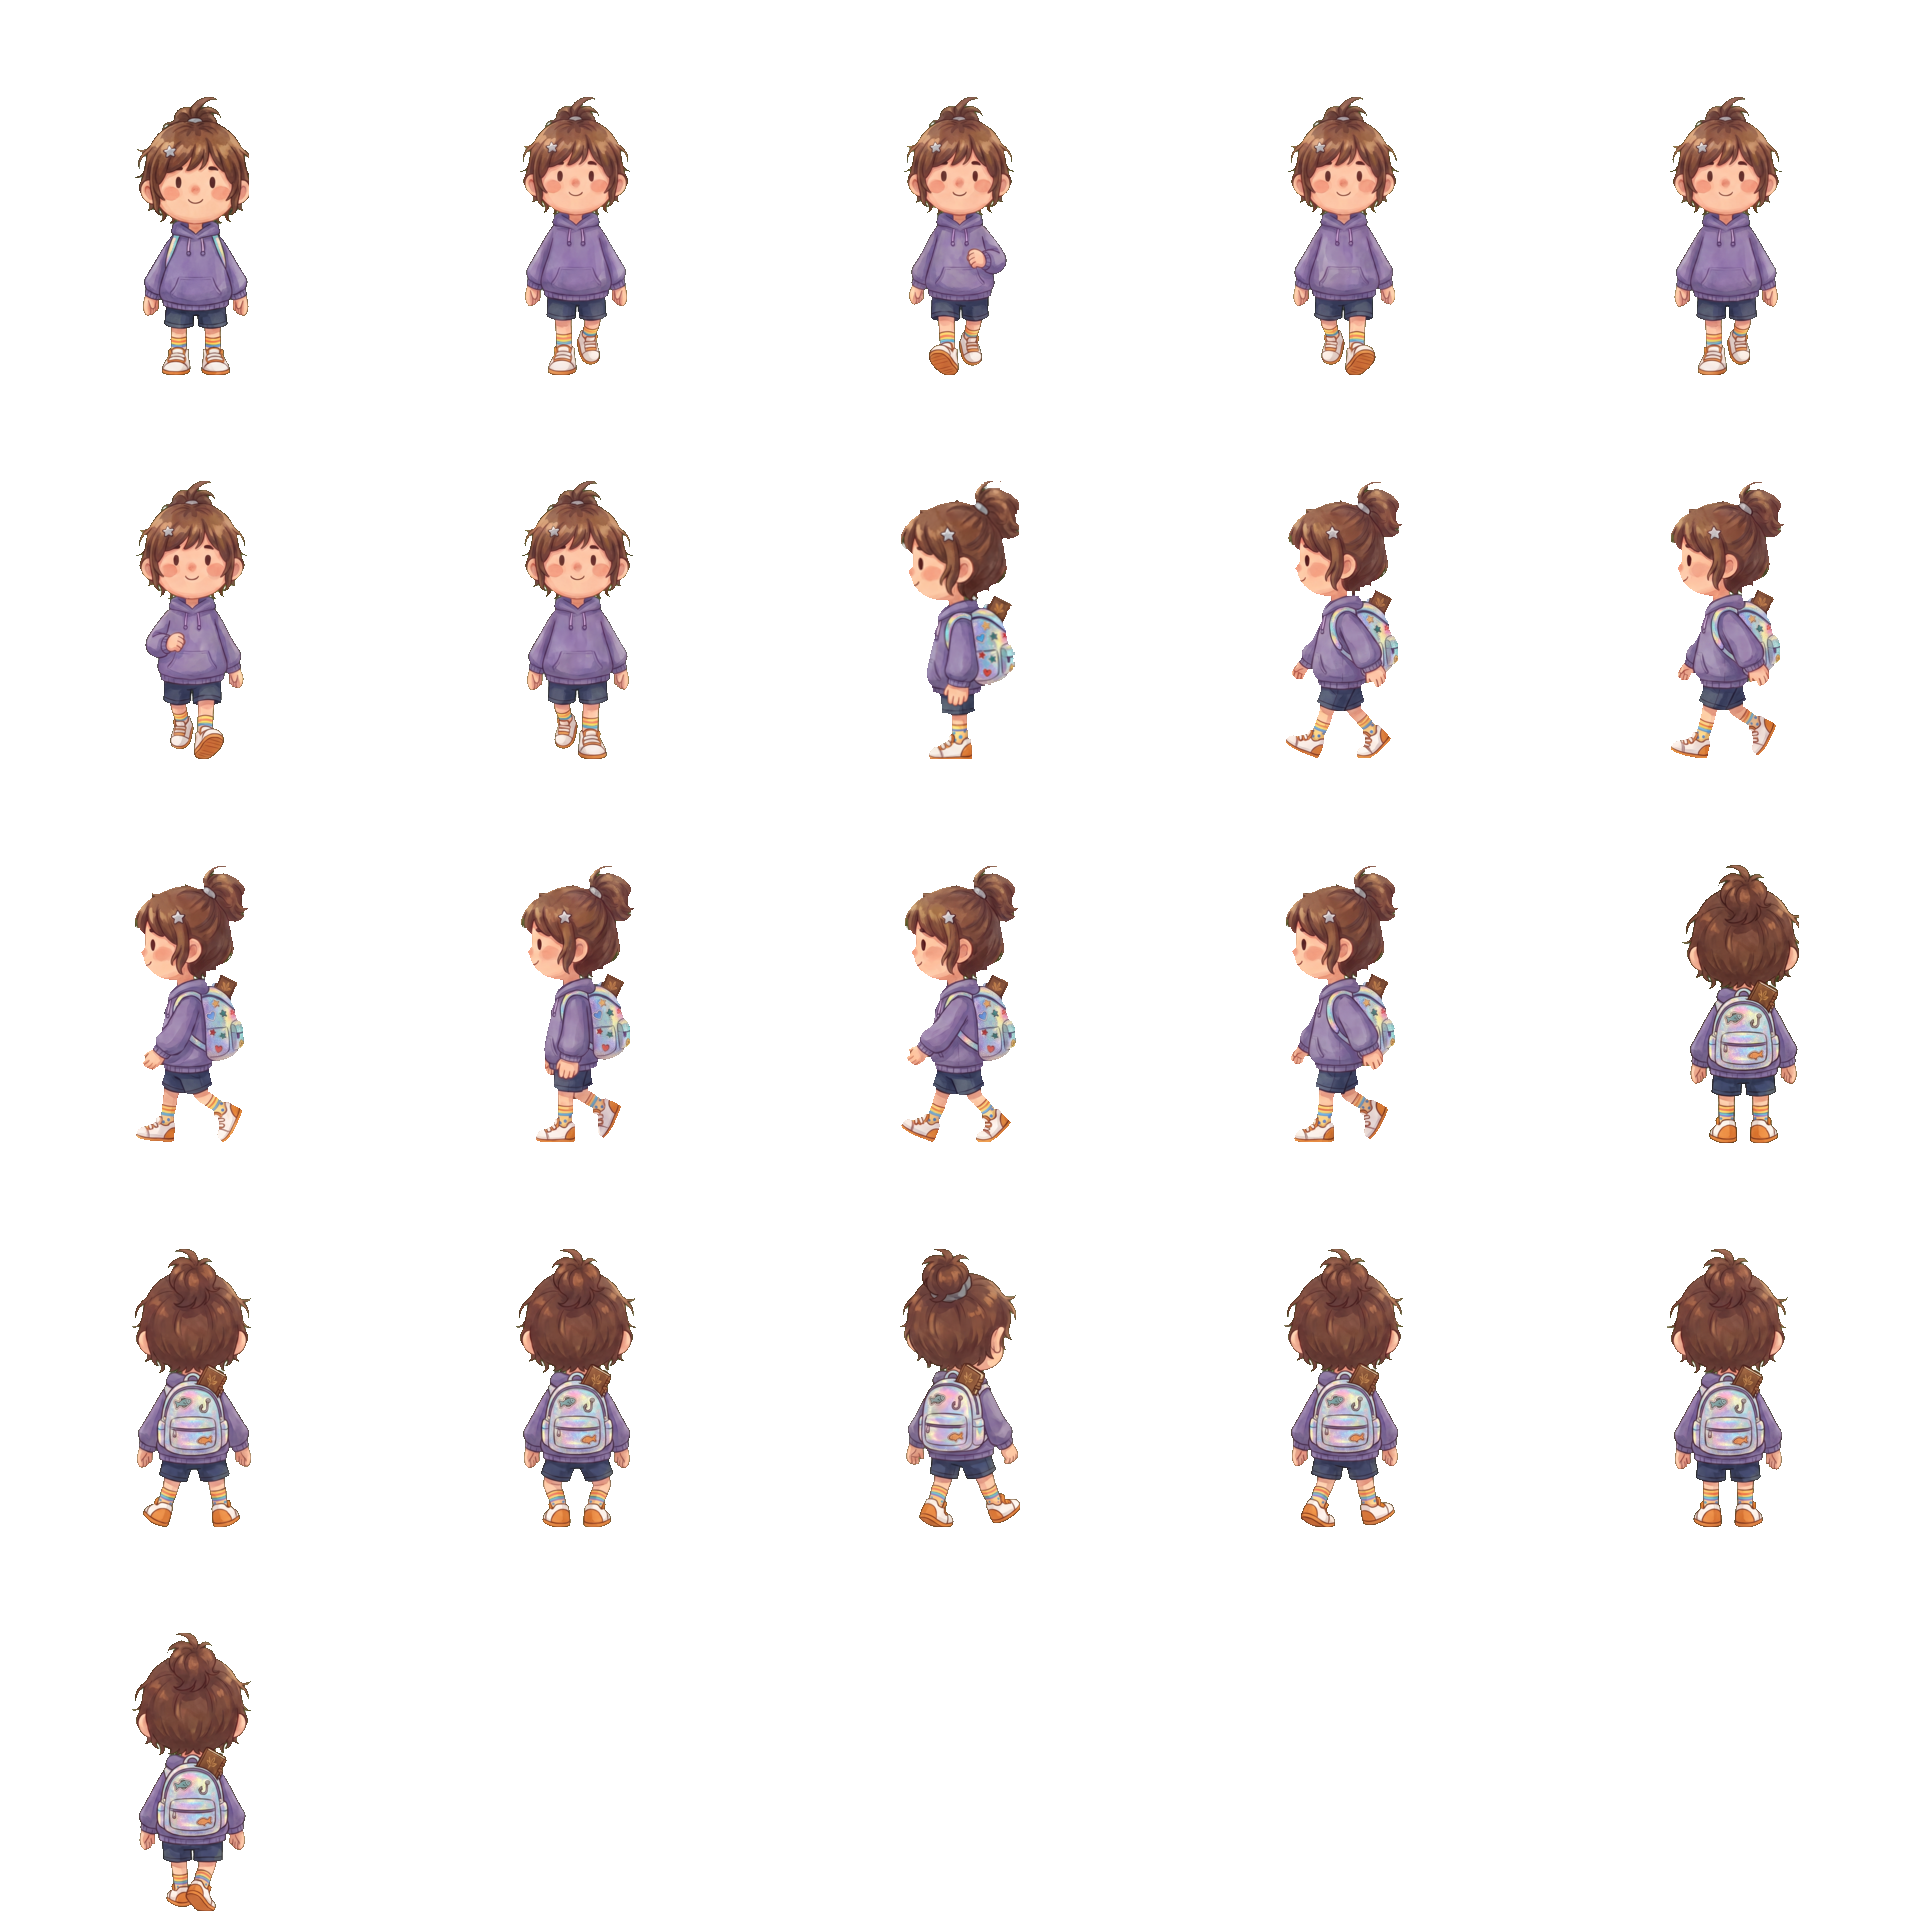
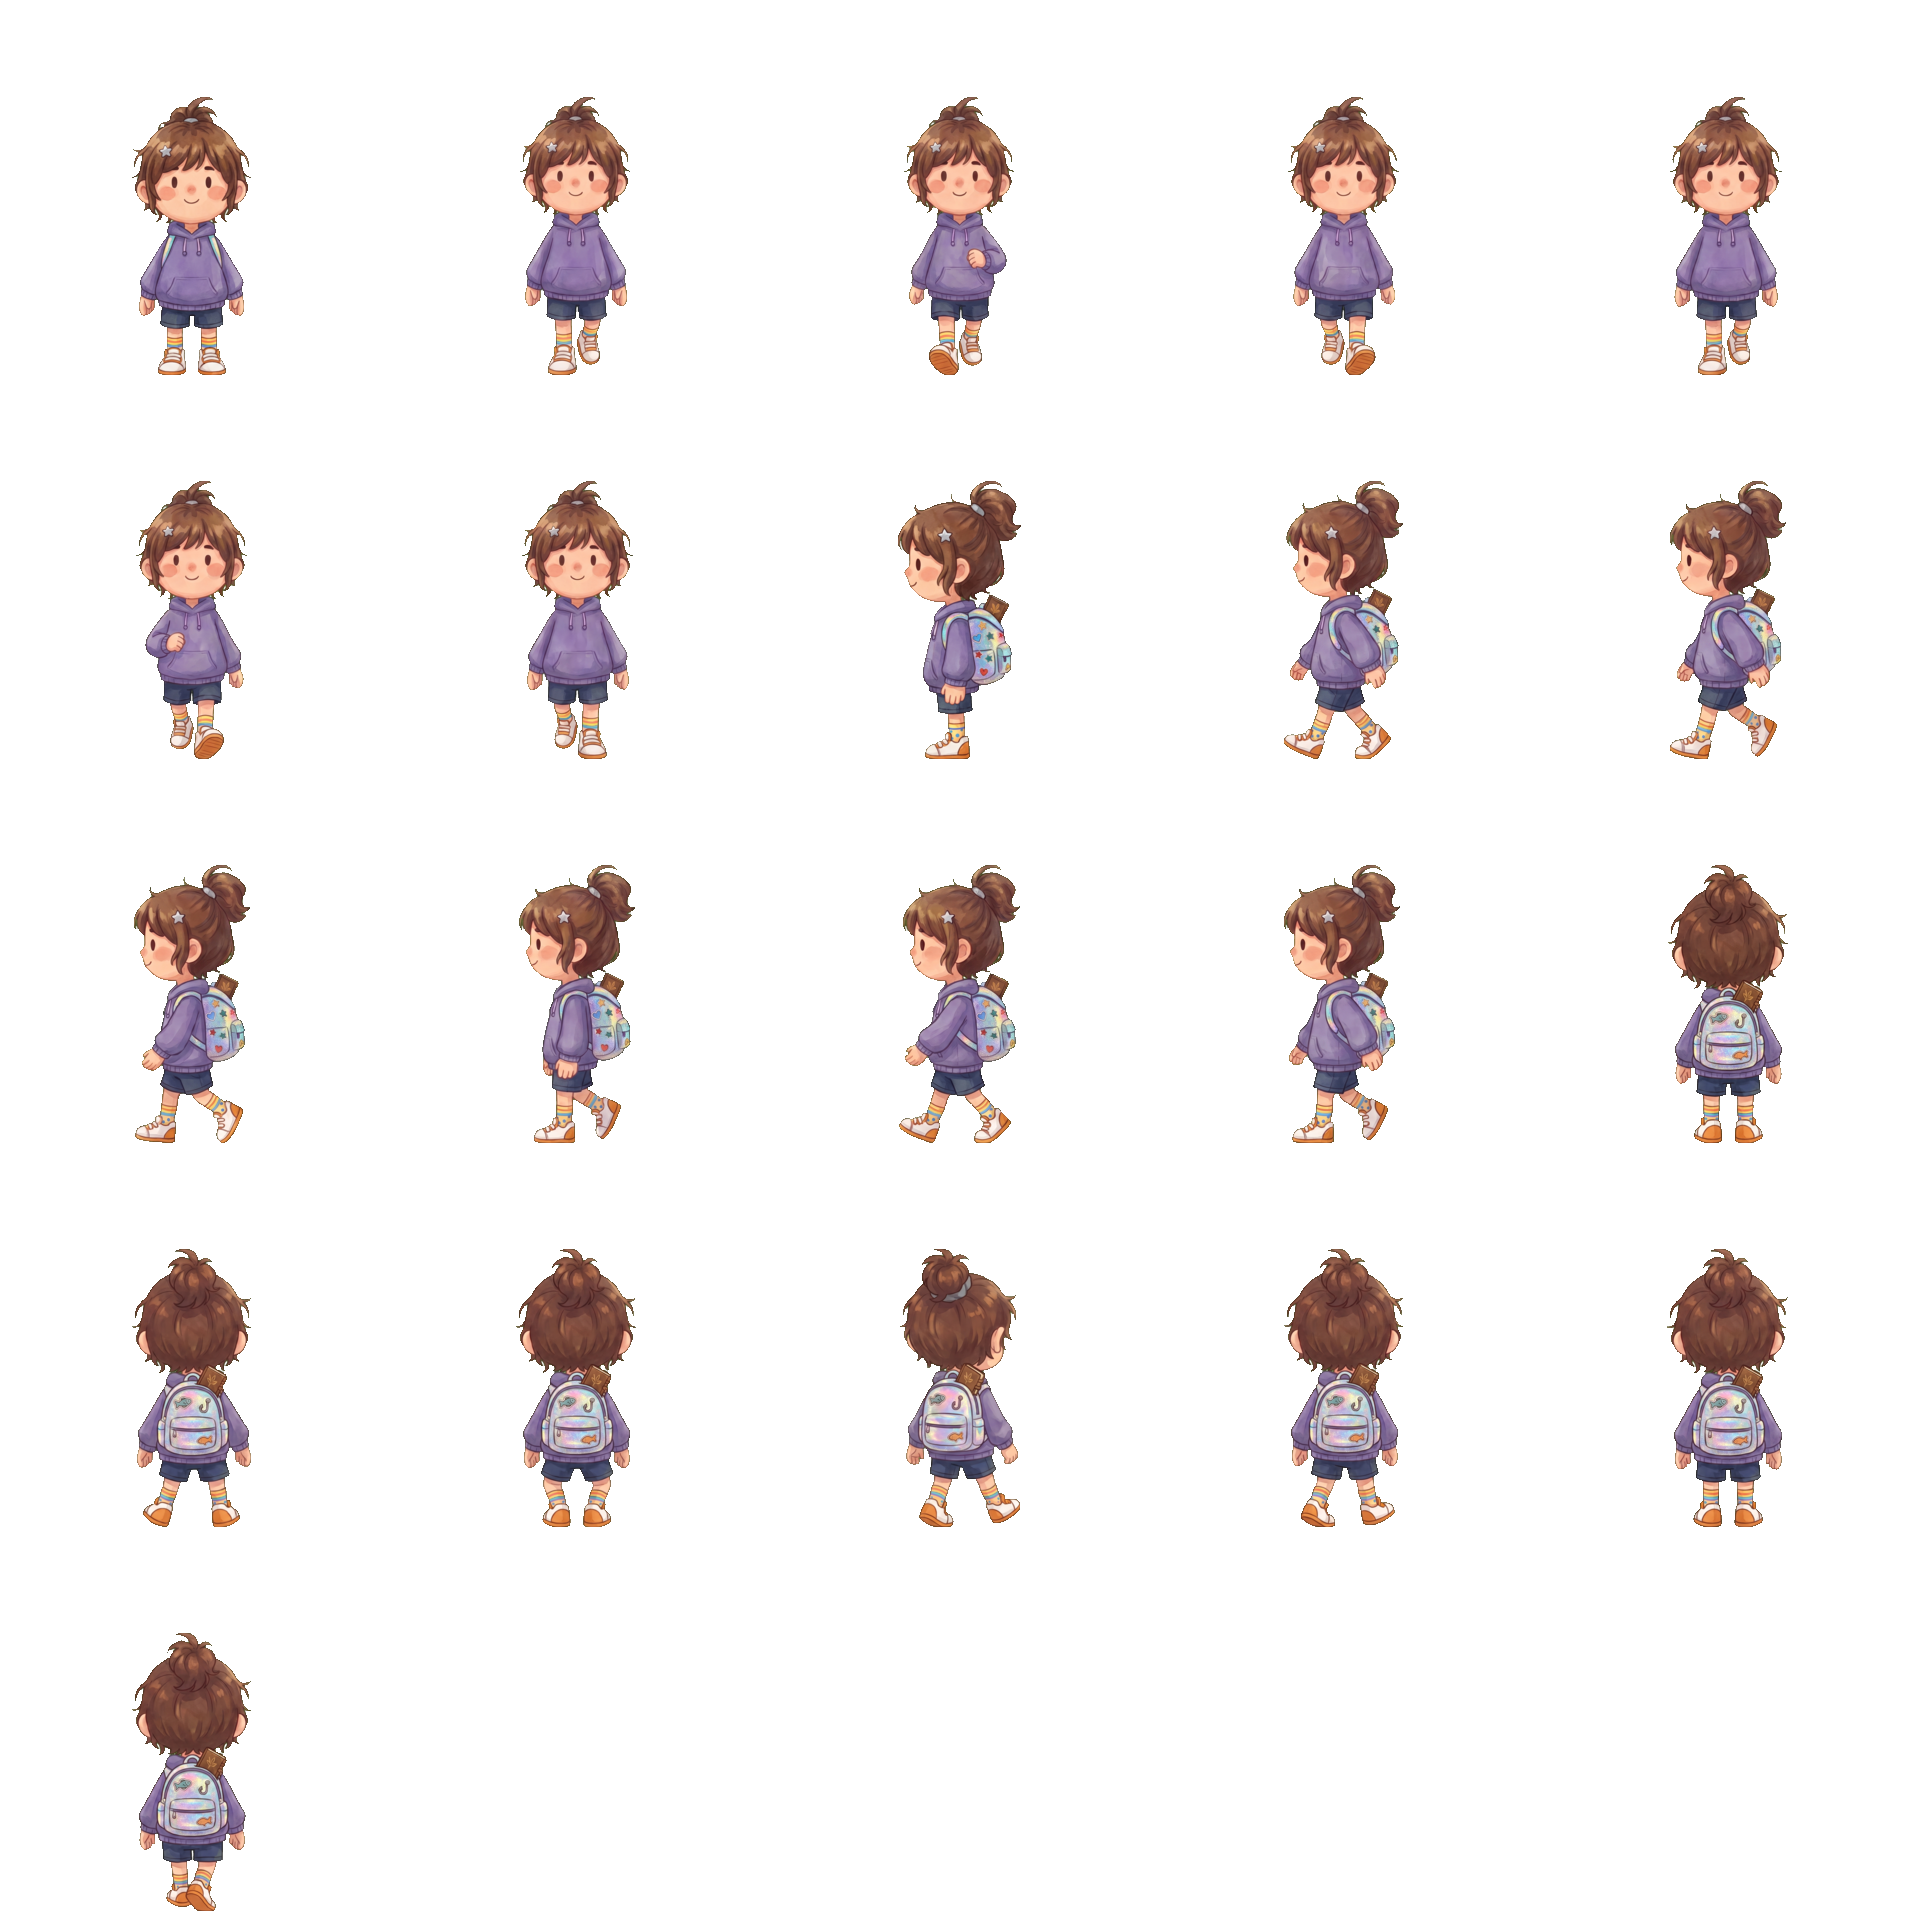
fix: re-extract Fae frames without crop cuts
The extractor cropped each figure by a thresholded column range, slicing idle_down's right hair and three side-walk backpack edges. It now crops by the full component bounding box, and idles come from model-sheet components rather than hand-tuned boxes (which also re-centres up_idle, previously 12.5 px off). The validator's straight-edge check runs for every direction and flags only edges without ink (edge luminance close to the fill inside); it fails the previous atlas on exactly the four cut frames. Layout, frame names, anchor, and baseline are unchanged.

diff --git a/tools/art/validate-sprite.ts b/tools/art/validate-sprite.ts
@@ -95,7 +95,6 @@ function checkFrame(
   const height = frame.sourceSize.h;
   const alpha = new Uint8Array(width * height);
   const errors: string[] = [];
-  const direction = name.split("_")[0] ?? name;
   let minX = width;
   let minY = height;
   let maxX = -1;
@@ -153,22 +152,47 @@ function checkFrame(
   }
   if (components > 1) errors.push(`${components} alpha components`);
   for (let x = minX; x <= maxX; x += 1) {
-    let run = 0;
-    for (let y = minY; y <= maxY; y += 1) {
-      const current = bytes[(y * width + x) * 4 + 3] ?? 0;
-      const left = x > 0 ? bytes[(y * width + x - 1) * 4 + 3] ?? 0 : 0;
-      const right = x + 1 < width
-        ? bytes[(y * width + x + 1) * 4 + 3] ?? 0
-        : 0;
-      if (current >= 200 && (left <= 10 || right <= 10)) {
-        run += 1;
-        const nearFigureEdge = x <= minX + 4 || x >= maxX - 4;
-        if (direction === "up" && run >= 16 && nearFigureEdge) {
-          errors.push(`${name}: hard straight alpha edge at x=${x}`);
-          break;
+    for (const side of [-1, 1] as const) {
+      let runStart = -1;
+      const edgeCheckBottom = Math.min(maxY, minY + Math.floor((maxY - minY + 1) * 0.7));
+      for (let y = minY; y <= edgeCheckBottom + 1; y += 1) {
+        const current = y <= maxY
+          ? bytes[(y * width + x) * 4 + 3] ?? 0
+          : 0;
+        const neighborX = x + side;
+        const neighbor = y <= maxY && neighborX >= 0 && neighborX < width
+          ? bytes[(y * width + neighborX) * 4 + 3] ?? 0
+          : 0;
+        const continues = current >= 200 && neighbor <= 10;
+        if (continues && runStart < 0) runStart = y;
+        if (!continues && runStart >= 0) {
+          const runLength = y - runStart;
+          const edgeRows = Math.max(0, y - runStart);
+          if (runLength >= 16) {
+            let edgeLuma = 0;
+            let insideLuma = 0;
+            for (let row = runStart; row < y; row += 1) {
+              const edgeOffset = (row * width + x) * 4;
+              const insideX = x - side * 4;
+              const insideOffset = (row * width + insideX) * 4;
+              edgeLuma += ((bytes[edgeOffset] ?? 0)
+                + (bytes[edgeOffset + 1] ?? 0)
+                + (bytes[edgeOffset + 2] ?? 0)) / 3;
+              insideLuma += ((bytes[insideOffset] ?? 0)
+                + (bytes[insideOffset + 1] ?? 0)
+                + (bytes[insideOffset + 2] ?? 0)) / 3;
+            }
+            edgeLuma /= edgeRows;
+            insideLuma /= edgeRows;
+            if (edgeLuma > 115 || Math.abs(edgeLuma - insideLuma) < 25) {
+              errors.push(
+                `${name}: hard edge x=${x} rows=${runStart}-${y - 1} `
+                + `edge=${edgeLuma.toFixed(1)} inside=${insideLuma.toFixed(1)}`,
+              );
+            }
+          }
+          runStart = -1;
         }
-      } else {
-        run = 0;
       }
     }
   }

diff --git a/tools/art/extract-strip.ts b/tools/art/extract-strip.ts
@@ -1,7 +1,7 @@
 #!/usr/bin/env bun
 export {};
 
-type Bounds = { start: number; end: number };
+type Bounds = { start: number; end: number; top: number; bottom: number };
 
 function value(name: string, fallback: string): string {
   const index = Bun.argv.indexOf(`--${name}`);
@@ -56,6 +56,8 @@ function findBounds(alpha: Uint8Array, width: number, height: number): Bounds[] 
     let area = 0;
     let minX = width;
     let maxX = 0;
+    let minY = height;
+    let maxY = 0;
     while (queue.length > 0) {
       const current = queue.pop();
       if (current === undefined) continue;
@@ -64,6 +66,8 @@ function findBounds(alpha: Uint8Array, width: number, height: number): Bounds[] 
       const y = Math.floor(current / width);
       minX = Math.min(minX, x);
       maxX = Math.max(maxX, x);
+      minY = Math.min(minY, y);
+      maxY = Math.max(maxY, y);
       const neighbors = [[-1, 0], [1, 0], [0, -1], [0, 1]] as const;
       for (const [dx, dy] of neighbors) {
         const nextX = x + dx;
@@ -76,7 +80,10 @@ function findBounds(alpha: Uint8Array, width: number, height: number): Bounds[] 
         }
       }
     }
-    components.push({ area, bounds: { start: minX, end: maxX + 1 } });
+    components.push({
+      area,
+      bounds: { start: minX, end: maxX + 1, top: minY, bottom: maxY + 1 },
+    });
   }
   const largest = Math.max(...components.map((component) => component.area));
   return components
@@ -131,7 +138,10 @@ function splitWidest(
   }
   return bounds
     .filter((bound) => bound !== widest)
-    .concat([{ start: widest.start, end: split }, { start: split, end: widest.end }])
+    .concat([
+      { start: widest.start, end: split, top: widest.top, bottom: widest.bottom },
+      { start: split, end: widest.end, top: widest.top, bottom: widest.bottom },
+    ])
     .sort((left, right) => left.start - right.start);
 }
 
@@ -156,8 +166,11 @@ for (const [index, bound] of bounds.entries()) {
   const padding = 12;
   const start = Math.max(0, bound.start - padding);
   const end = Math.min(dimensions.width, bound.end + padding);
+  const top = Math.max(0, bound.top - padding);
+  const bottom = Math.min(dimensions.height, bound.bottom + padding);
   const crop = Bun.spawn([
-    "magick", input, "-crop", `${end - start}x${dimensions.height}+${start}+0`,
+    "magick", input,
+    "-crop", `${end - start}x${bottom - top}+${start}+${top}`,
     "+repage", `${output}/raw-${String(index + 1).padStart(2, "0")}.png`,
   ], { stdout: "inherit", stderr: "inherit" });
   if (await crop.exited !== 0) throw new Error(`Could not crop strip frame ${index + 1}`);

diff --git a/docs/art/pipeline.md b/docs/art/pipeline.md
@@ -10,14 +10,16 @@ GEMINI_API_KEY=... bun tools/art/gemini-image.ts \
   --model gemini-3-pro-image --aspect-ratio 1:1 --image-size 2K \
   --prompt "..." --ref docs/art/concepts/characters/character_concept_sheet_fae.png
 
-# 2. Segment a generated strip by connected components, dropping islands under
-# the main figure threshold. This avoids equal-width crops and neighbor bleed.
+# 2. Segment a generated strip by connected components, retaining each figure's
+# full alpha bounding box and masking other components. This avoids equal-width
+# or thresholded column crops and neighbor bleed.
 bun tools/art/extract-strip.ts --input art/scratch/walk-strip.png \
   --output art/scratch/strip-frames --key '#00FF00' --fuzz 18% --expected 6
 # If connected components return fewer frames, the script may split the widest
 # component only at its deepest alpha-column valley when that column has at
 # most 6 opaque pixels. Otherwise it fails and the operator must regenerate
-# with more spacing. It fails if six are not found.
+# with more spacing. It fails if six are not found and never cuts through a
+# component's artwork.
 # For a difficult back walk, prefer two three-frame strips with wide gutters.
 # Extract each with --expected 3, then concatenate the extracted frames in
 # contact, down, passing, contact, down, passing order.
@@ -73,5 +75,6 @@ omitted because the runtime mirrors the left set.
 `validate-sprite.ts` checks edges, connected components, green spill, baseline,
 directional height consistency, even six-frame walk counts, required animation
 names, idle orientation (48x48 alpha-mask IoU against walk frame 0), per-frame
-idle-vs-walk head width and colour, and long hard-straight alpha edges in the up
-hair region (crop cuts).
+idle-vs-walk head width and colour, and long hard-straight alpha edges in every
+direction when their edge luminance lacks the dark ink expected inside the
+silhouette (crop cuts).
